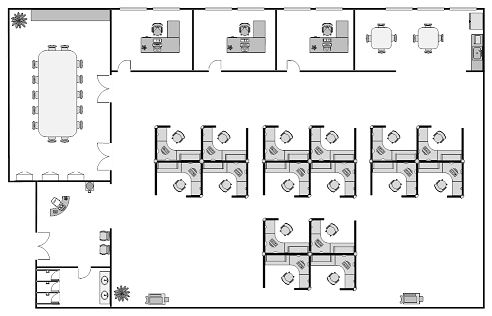
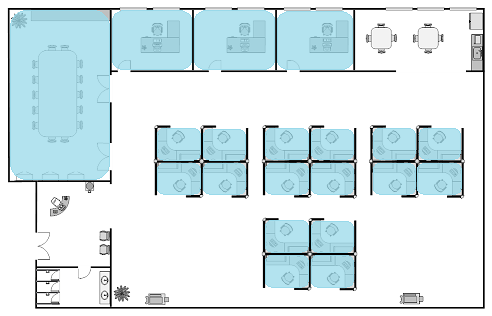
Fix imagemap component
No longer need to double click

diff --git a/ListingDetail.html b/ListingDetail.html
@@ -114,11 +114,12 @@
                             header="Make a booking"
                             header-bg-variant="dark"
                             header-text-variant="white">
-                                <b-form-group id="input-group-3"> Preferred Space: {{form.area}} </b-form-group>
-                                <floorplan v-bind:srcimg="srcimg" @clicked="onClickChild"></floorplan>
-
+                                Preferred Space: {{form.area}} <br>
+                                <small>Please select a space on the map to book it.</small> <br>
                                 <small>If no space is chosen, you will be assigned to one upon arrival.</small>
-                                
+
+                                <floorplan v-bind:srcimg="srcimg"  @update-space="onClickChild"></floorplan>
+
                                 <b-form-group id="input-group-1" label="Start Date:" label-for="datepicker">
                                     <b-form-datepicker
                                         dropdown
@@ -216,11 +217,11 @@
                 }
             },
             mounted: function () {
-                ImageMap('img[usemap]')
+                ImageMap('img[usemap]', 100)
             },
             template: `
             <div>
-                <img :src="srcimg" usemap="#image-map">
+                <img :src="srcimg" usemap="#image-map" @click="selectRegion(null)">
                 <map name="image-map">
                     <area alt="conf" title="conf" coords="12,12,108,179" shape="rect" @click="selectRegion('conf')">
                     <area alt="office1" title="office1" coords="114,14,190,68" shape="rect" @click="selectRegion('office1')">
@@ -247,15 +248,23 @@
             `,
             methods: {
                 selectRegion(space) {
-                this.srcimg = "images/listings/1001-" + space + ".png"
-                if (space == "conf") {
-                    this.area = "Conference Room"
-                } else if (space.indexOf("office") != -1) {
-                    this.area = "Office " + space.substring(6)
-                } else {
-                    this.area = "Pod " + space.substring(3)
-                }
-                this.$emit('clicked', this.area)
+                    if (space == null) {
+                        this.srcimg = "images/listings/1001.png"
+                        this.area = "None Chosen"
+
+                    } else {
+                        this.srcimg = "images/listings/1001-" + space + ".png"
+                        if (space == "conf") {
+                            this.area = "Conference Room"
+                        } else if (space.indexOf("office") != -1) {
+                            this.area = "Office " + space.substring(6)
+                        } else {
+                            this.area = "Pod " + space.substring(3)
+                        }
+                    }
+
+                    this.$emit('update-space', this.area, this.srcimg)
+
                 },
             }
         }
@@ -336,8 +345,11 @@
             }
         },
         methods: {
-            onClickChild (value) {
-                this.form.area = value 
+            onClickChild: function(space, imageurl) {
+                this.form.area = space 
+                this.srcimg = imageurl 
+
+
             },
             displayListingDetails: function(id) {
                 var listing = firebase.database().ref("listing/"+id);
